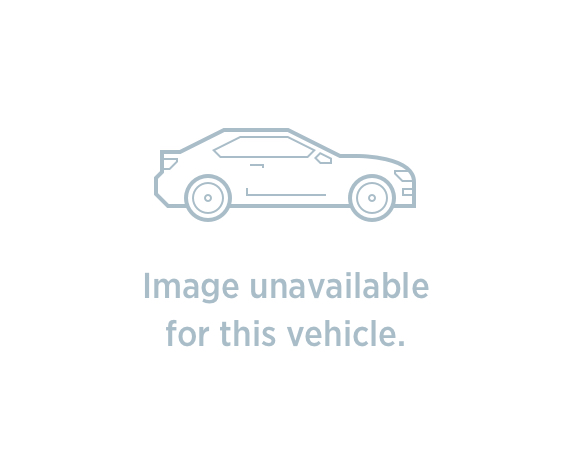
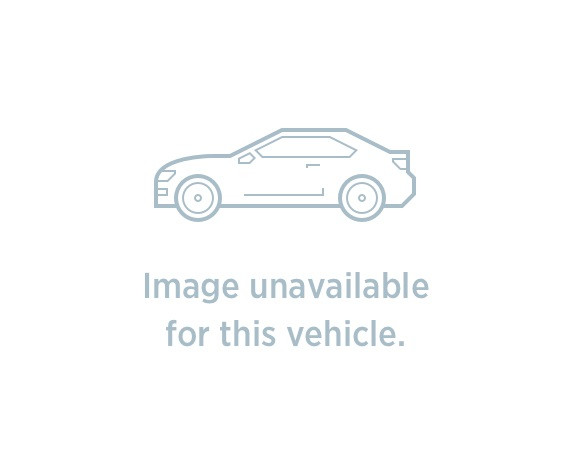
Switched out placeholder image for model/inventory where no images a present with updated version

Changed region(s): [[0.2713, 0.28, 0.7535, 0.4978]]

diff --git a/resources/assets/js/components/Deals/ModelYearImage.jsx b/resources/assets/js/components/Deals/ModelYearImage.jsx
@@ -5,7 +5,7 @@ class ModelYearImage extends React.PureComponent {
         super(props);
 
         this.state = {
-            fallbackDealImage: '/images/dmr-logo.svg',
+            fallbackDealImage: '/images/dmr-placeholder.jpg',
             externalImages: null,
         };
     }
